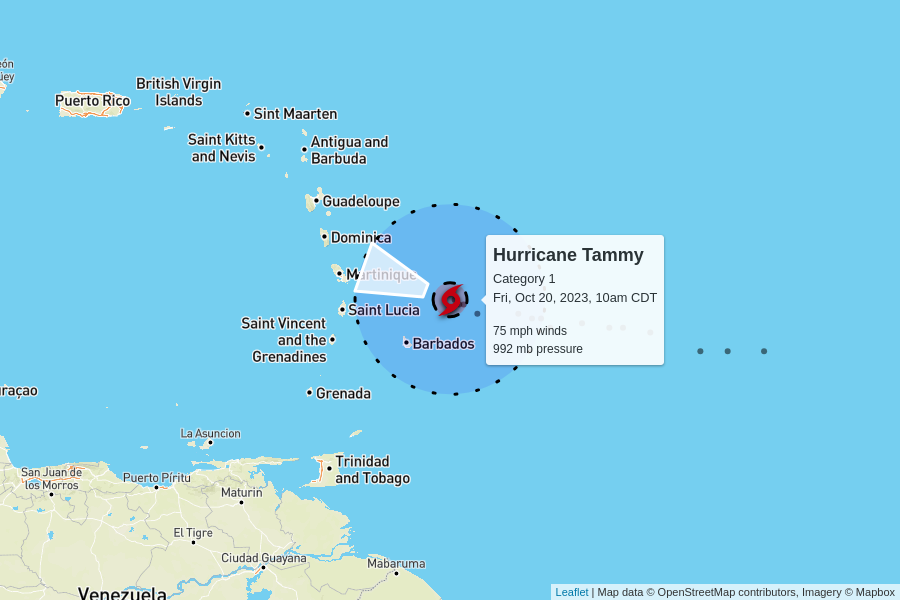
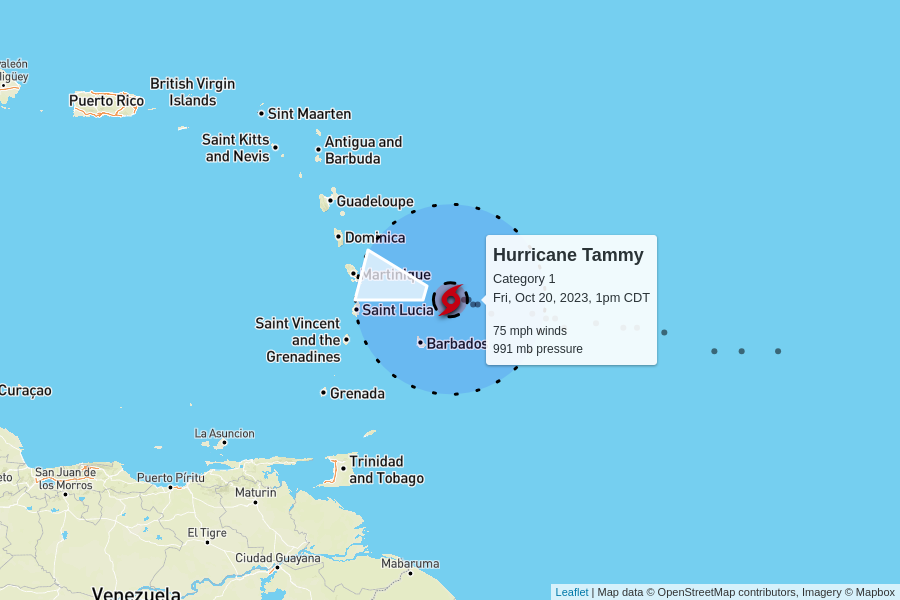
automatic update

diff --git a/docs/index.html b/docs/index.html
@@ -102,7 +102,7 @@
         <td colspan="6" class="storm category-1" >
           <h2>
             Hurricane Tammy - Category 1
-            <p class="updated">last updated <span data-time>2023-10-20T15:00:00.000Z</span></p>
+            <p class="updated">last updated <span data-time>2023-10-20T18:00:00.000Z</span></p>
           </h2>
         </td>
       </tr>
@@ -118,11 +118,11 @@
       <tr>
         <td class="spacer"></td>
         <td>75 mph<br>0 mph since last update</td>
-        <td>992 mb<br>0 mb since last update</td>
+        <td>991 mb<br>-1 mb since last update</td>
         <td>
           7 mph to the west-northwest
           <br/>
-          <span style="display: inline-block; font-size: 1.5em; transform: rotate(290deg);">↑</span>
+          <span style="display: inline-block; font-size: 1.5em; transform: rotate(285deg);">↑</span>
         </td>
         <td><a href="https://raw.githubusercontent.com/mgwalker/atlantic-hurricanes/main/data/csv/AL202023.csv">AL202023.csv</a></td>
         <td><a href="https://www.nhc.noaa.gov/archive/2023/TAMMY.shtml?">NHC advisories</a></td>
